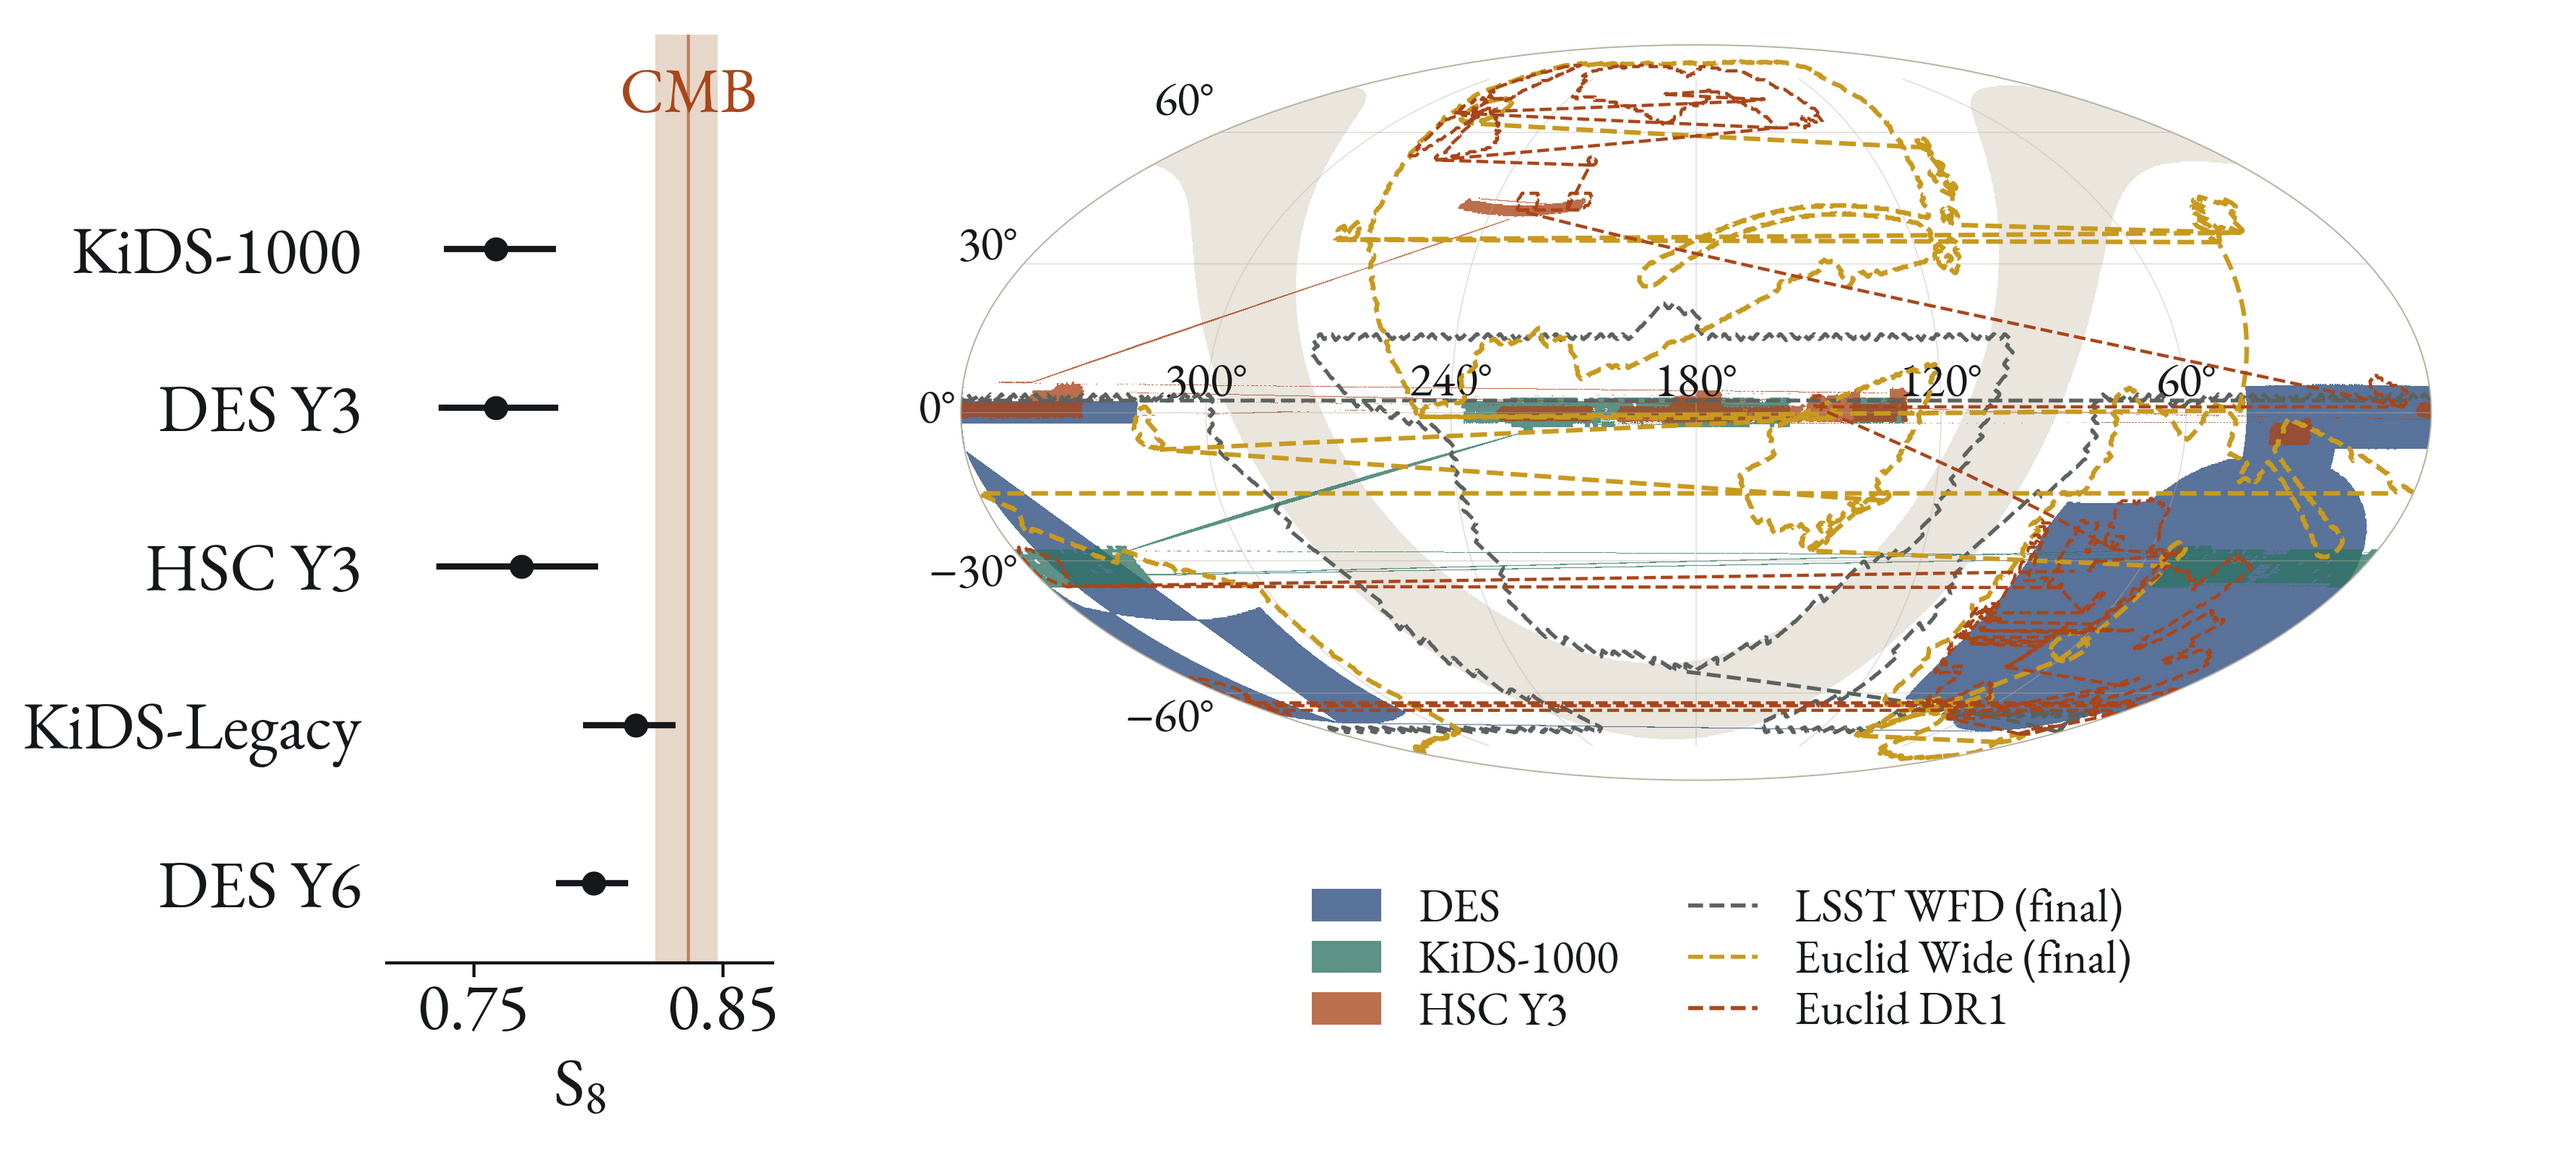
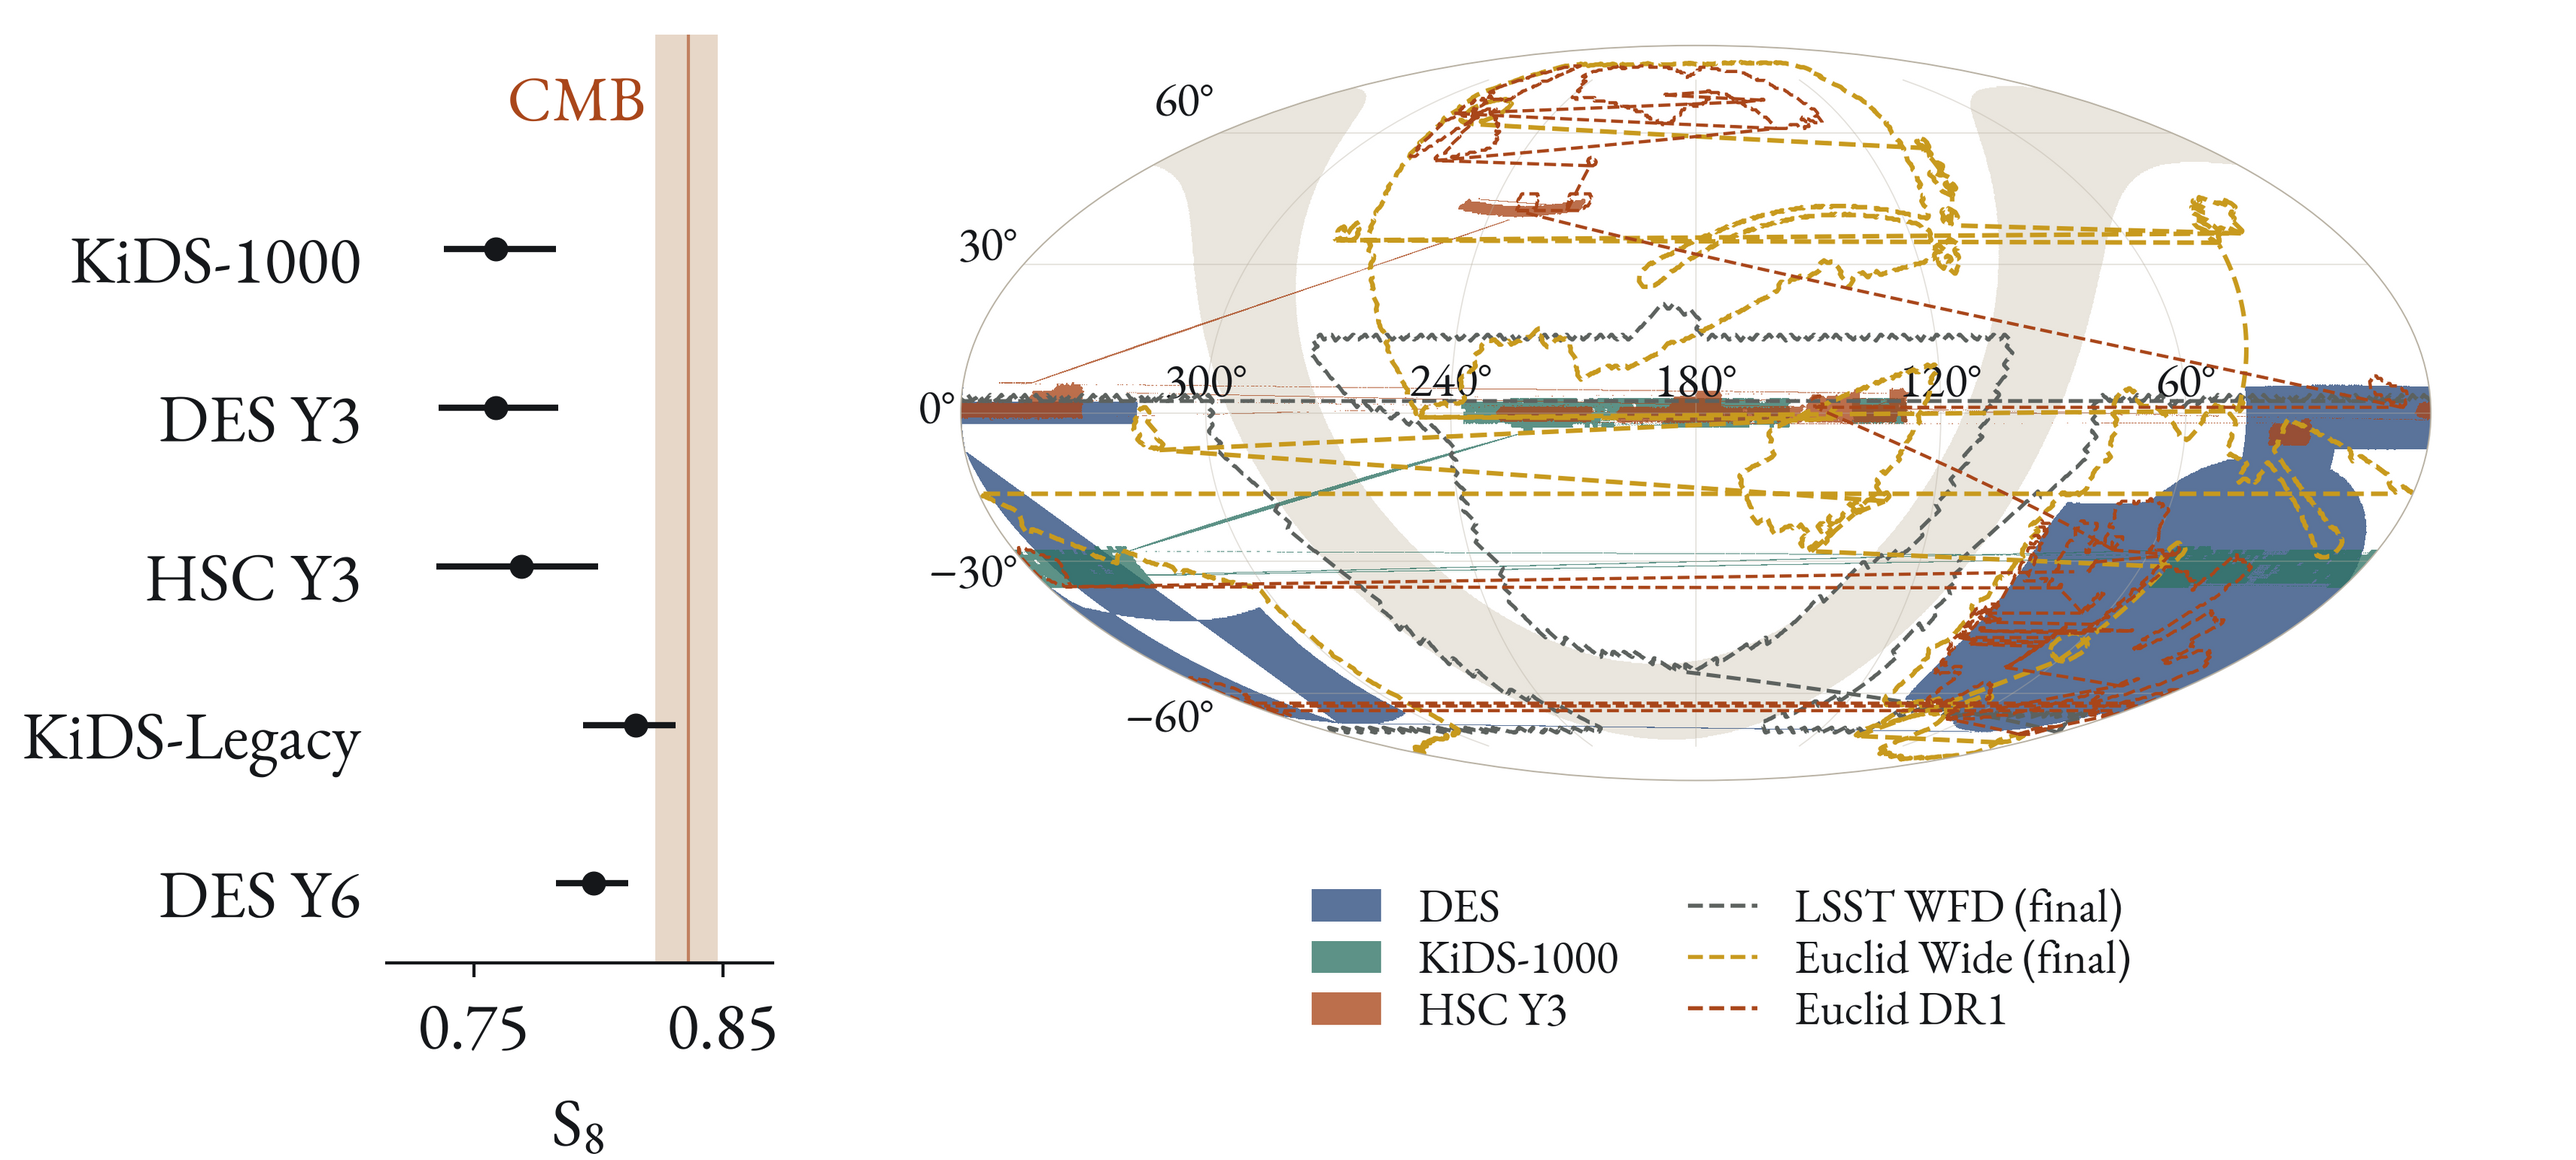
Consensus slide carries the Paper I-IV list (culmination backup dropped); CMB label beside its band, whisker guard checks vertical bounds; paper slides titled 'Paper N:'; Paper IV 'harmonic space gives a higher S8'; Paper I catalog line
Claude-Session: https://claude.ai/code/session_01JK7o9J52GoR68fK8vYUkmP

diff --git a/index.html b/index.html
@@ -364,13 +364,15 @@ Not the same split as the paper: "late-type" here is the morphology class of the
       <!-- Cail · consensus -->
       <section>
         <h2>Cosmic shear benefits from independent measurements</h2>
-        <img class="plot" src="images/s8_stage3.png" alt="S8 from five Stage III cosmic-shear analyses, oldest at the top, against the CMB band" style="position:absolute;left:150px;top:112px;width:379px;height:540px;">
-        <div class="textcol" style="position:absolute;left:640px;top:200px;width:580px;font-size:28px;">
-    <p style="font-size:28px;">$S_8$ seems to be converging as systematics improve; consensus is important!</p>
-    <p class="fragment" style="font-size:28px;margin-top:28px;">UNIONS adds an independent measurement from the northern sky: different instrument, on-sky systematics and sample variance</p></div>
+        <img class="plot" src="images/s8_stage3.png" alt="S8 from five Stage III cosmic-shear analyses, oldest at the top, against the CMB band" style="position:absolute;left:160px;top:108px;width:358px;height:510px;">
+        <p style="position:absolute;left:600px;top:140px;width:620px;margin:0;font-size:28px;">$S_8$ seems to be converging as systematics improve; consensus is important!</p>
+        <ul class="people-list" style="position:absolute;left:600px;top:250px;width:640px;margin:0;"><li><img class="avatar" src="images/people/fabian-hervas-peters.jpg" alt="Fabian Hervas-Peters"><span><strong>Paper I</strong>: shape catalog (Hervas-Peters et al.)</span></li>
+    <li><img class="avatar" src="images/people/cail-daley.png" alt="Cail Daley"><span><strong>Paper II</strong>: B-mode validation (Daley et al.)</span></li>
+    <li><img class="avatar" src="images/people/lisa-goh.jpg" alt="Lisa Goh"><span><strong>Paper III</strong>: configuration-space constraints (Goh et al.)</span></li>
+    <li><img class="avatar" src="images/people/sacha-guerrini.jpg" alt="Sacha Guerrini"><span><strong>Paper IV</strong>: harmonic-space constraints (Guerrini et al.)</span></li></ul>
         <aside class="notes"><ul class="skim">
       <li><strong>Whisker</strong> — published Stage III cosmic-shear $S_8$, oldest at the top; the band is the CMB. The newer analyses (KiDS-Legacy, DES Y6) moved towards the CMB as systematics control improved.</li>
-      <li><strong>Callback</strong> — Calum's globe already showed that DES, KiDS and HSC share the southern and equatorial sky; UNIONS is the independent northern measurement.</li>
+      <li><strong>The release</strong> — four companion papers from one blinded catalog; one slide on each follows.</li>
     </ul>
     <details><summary>Numbers</summary><p>KiDS-1000 $0.759^{+0.024}_{-0.021}$; DES Y3 $0.759^{+0.025}_{-0.023}$; HSC Y3 $0.769^{+0.031}_{-0.034}$; KiDS-Legacy $0.815^{+0.016}_{-0.021}$; DES Y6 $0.798^{+0.014}_{-0.015}$; CMB $0.836^{+0.012}_{-0.013}$. Values as in the Moriond 2026 UNIONS talk; figure by figures/s8_landscape.py.</p></details></aside>
       </section>
@@ -383,8 +385,7 @@ Not the same split as the paper: "late-type" here is the morphology class of the
         <div class="textcol" style="position:absolute;left:780px;top:152px;width:460px;"><p class="num">3648 deg²</p>
     <p class="num">$n_{\rm eff} = 4.96$ arcmin$^{-2}$</p>
     <p class="num">$\sigma_\epsilon = 0.27$</p>
-    <p class="small">ShapePipe metacalibration shapes.</p>
-    <p class="accent">The catalog goes public on acceptance, in the next few months.</p></div>
+    <p class="accent">Catalog to be published on acceptance (!)</p></div>
         <aside class="notes"><ul class="skim">
       <li><strong>Paper I</strong> — the UNIONS-3500 shape catalog (Hervas-Peters et al.): 61.4 million galaxies over 3648 deg² of CFHT $r$-band imaging.</li>
       <li><strong>Map</strong> — effective source density per HEALPix pixel ($N_{\rm side}=512$); the density drops slightly towards the Galactic plane (dust, diffuse light), and the shape noise is very homogeneous across the footprint.</li>
@@ -396,7 +397,7 @@ Not the same split as the paper: "late-type" here is the morphology class of the
 
       <!-- Cail · paper-ii -->
       <section>
-        <h2>B-modes are mitigated by cutting CCD- and large-scales</h2>
+        <h2>Paper II: B-modes are mitigated by cutting CCD- and large-scales</h2>
         <p class="figcap" style="position:absolute;left:40px;top:112px;width:1200px;margin:0;">All scales (left) · fiducial scale cuts (right) · ● configuration, □ harmonic space</p>
         <img class="plot" src="images/paper2_cosebis_bn.png" alt="COSEBI B-modes in units of their error, for all scales and for the fiducial scale cuts, from configuration and harmonic space" style="position:absolute;left:40px;top:146px;width:1200px;height:248px;">
         <div class="textcol" style="position:absolute;left:80px;top:430px;width:1120px;"><ul>
@@ -414,7 +415,7 @@ Not the same split as the paper: "late-type" here is the morphology class of the
 
       <!-- Cail · paper-iii -->
       <section>
-        <h2>Paper III jointly fits cosmology and PSF leakage in real space</h2>
+        <h2>Paper III: cosmology and PSF leakage are fit jointly in real space</h2>
         <img class="plot" src="images/paper3_xipm_bestfit.png" alt="xi plus and xi minus data with the best-fit model and the best-fit PSF-leakage systematic, B-mode informed scale cuts shaded" style="position:absolute;left:40px;top:112px;width:1200px;height:474px;">
         <p class="caption" style="position:absolute;left:40px;top:592px;width:1200px;margin:0;">$\xi_\pm(\theta)$ with best-fit model and leakage systematics · Goh et al. 2026</p>
         <aside class="notes"><ul class="skim">
@@ -426,7 +427,7 @@ Not the same split as the paper: "late-type" here is the morphology class of the
 
       <!-- Cail · paper-iv -->
       <section>
-        <h2>Paper IV provides harmonic-space constraints from the same data</h2>
+        <h2>Paper IV: harmonic space gives a higher $S_8$</h2>
         <p class="figcap" style="position:absolute;left:40px;top:112px;width:1200px;margin:0;">Same catalog, $n(z)$ and blinding, but different basis and weighting of scales</p>
         <img class="plot" src="images/paper4_cell_bestfit.png" alt="Cell EE bandpowers with the harmonic-space best fit, its Halofit variant and the configuration-space best fit, scale cuts shaded" style="position:absolute;left:252px;top:146px;width:776px;height:478px;">
         <p class="caption" style="position:absolute;left:40px;top:630px;width:1200px;margin:0;">Guerrini et al. 2026</p>
@@ -549,23 +550,6 @@ Not the same split as the paper: "late-type" here is the morphology class of the
         <h2>References and previous UNIONS talks</h2>
         <ul style="position:absolute;left:69px;top:122px;width:1140px;margin:0;"><li><a href="https://cailmdaley.github.io/talks/26_Moriond_UNIONS/26_Moriond_UNIONS.html">Cail Daley · Moriond 2026 UNIONS source</a></li><li><a href="https://sachaguer.github.io/talks/26_Moriond_UNIONS/26_Moriond_UNIONS.html">Sacha Guerrini · Moriond 2026 UNIONS</a></li><li>Hervas Peters+2024 · arXiv:2412.01790</li><li>Akhmetshyn+2026 · arXiv:2607.14207</li><li>Campbell+2026 · arXiv:2606.23651</li><li>Goh+2026 · arXiv:2605.13547 · Guerrini+2026 · arXiv:2605.13543</li></ul>
         <aside class="notes"><p>Sacha’s published HTML was confirmed in gh-pages; Cail’s Pages path returned 404, so link the source.</p></aside>
-      </section>
-
-      <!-- Cail · culmination -->
-      <section>
-        <h2>UNIONS-3500 constraints are the culmination of ~10 years of work</h2>
-        <ul style="position:absolute;left:69px;top:122px;width:1140px;margin:0;">
-    <li>Non-tomographic, about 2400 deg² effective area</li>
-    <li>Inference with correlation functions $\xi_\pm(\theta)$ and band powers $C_\ell$</li></ul>
-        <ul class="people-list" style="position:absolute;left:60px;top:270px;width:1160px;margin:0;"><li><img class="avatar" src="images/people/fabian-hervas-peters.jpg" alt="Fabian Hervas-Peters"><span><strong>Paper I</strong>: shape catalog (Hervas-Peters et al.)</span></li>
-    <li><img class="avatar" src="images/people/cail-daley.png" alt="Cail Daley"><span><strong>Paper II</strong>: B-mode validation (Daley et al.)</span></li>
-    <li><img class="avatar" src="images/people/lisa-goh.jpg" alt="Lisa Goh"><span><strong>Paper III</strong>: configuration-space constraints (Goh et al.)</span></li>
-    <li><img class="avatar" src="images/people/sacha-guerrini.jpg" alt="Sacha Guerrini"><span><strong>Paper IV</strong>: harmonic-space constraints (Guerrini et al.)</span></li></ul>
-        <aside class="notes"><ul class="skim">
-      <li><strong>The release</strong> — companion papers from one blinded catalog, built by about ten people over roughly a decade of survey development; one slide on each follows.</li>
-      <li><strong>One redshift bin</strong> — only $r$-band across the footprint, so $n(z)$ comes from a SOM calibration on external deep fields; tomography comes at the end of the talk.</li>
-    </ul>
-    <details><summary>Sources</summary><p>Hervas-Peters et al. 2026 (I); Daley et al. 2026 (II); Goh et al. 2026, arXiv:2605.13547 (III); Guerrini et al. 2026, arXiv:2605.13543 (IV). Wording from the Moriond 2026 talk; headshots from its team slide.</p></details></aside>
       </section>
 
       <!-- Cail · robustness -->

diff --git a/figures/s8_landscape.py b/figures/s8_landscape.py
@@ -34,7 +34,7 @@ def whisker(ax, rows, xlim, ms=22):
     for t, r in zip(ax.get_yticklabels(), rows):
         t.set_color(r[4])
     ax.tick_params(axis="y", length=0, pad=24)
-    ax.text(c, -0.95, "CMB", ha="center", va="center", fontsize=60, color=ORANGE)
+    ax.text(c - lo - 0.004, -0.95, "CMB", ha="right", va="center", fontsize=60, color=ORANGE)
     ax.set_ylim(len(rows) - 0.5, -1.35)
     ax.set_xlim(*xlim)
     ax.spines["left"].set_visible(False)
@@ -69,14 +69,14 @@ def stage3_whisker():
     """Portrait comparison for the rotating survey globe, at slide text size."""
     with plt.rc_context({'font.size':72}):
         fig = plt.figure(figsize=(11.5, 16.4), dpi=DPI)
-        ax = fig.add_axes([0.51, 0.15, 0.46, 0.79])
+        ax = fig.add_axes([0.51, 0.22, 0.46, 0.72])
         whisker(ax, [(n,v,l,h,INK) for n,v,l,h in STAGE3], (0.715,0.87))
         ax.texts[0].set_fontsize(72)
         ax.set_xticks([0.75,0.85])
         fig.canvas.draw()
         for text in [*ax.get_yticklabels(), *ax.get_xticklabels(), ax.xaxis.label, *ax.texts]:
             box = text.get_window_extent(fig.canvas.get_renderer())
-            assert box.x0 >= 0 and box.x1 <= fig.bbox.width, (text.get_text(),box)
+            assert 0 <= box.x0 and box.x1 <= fig.bbox.width and 0 <= box.y0 and box.y1 <= fig.bbox.height, (text.get_text(), box)
         fig.savefig(IMAGES/'s8_stage3.png', dpi=DPI)
         plt.close(fig)
 
